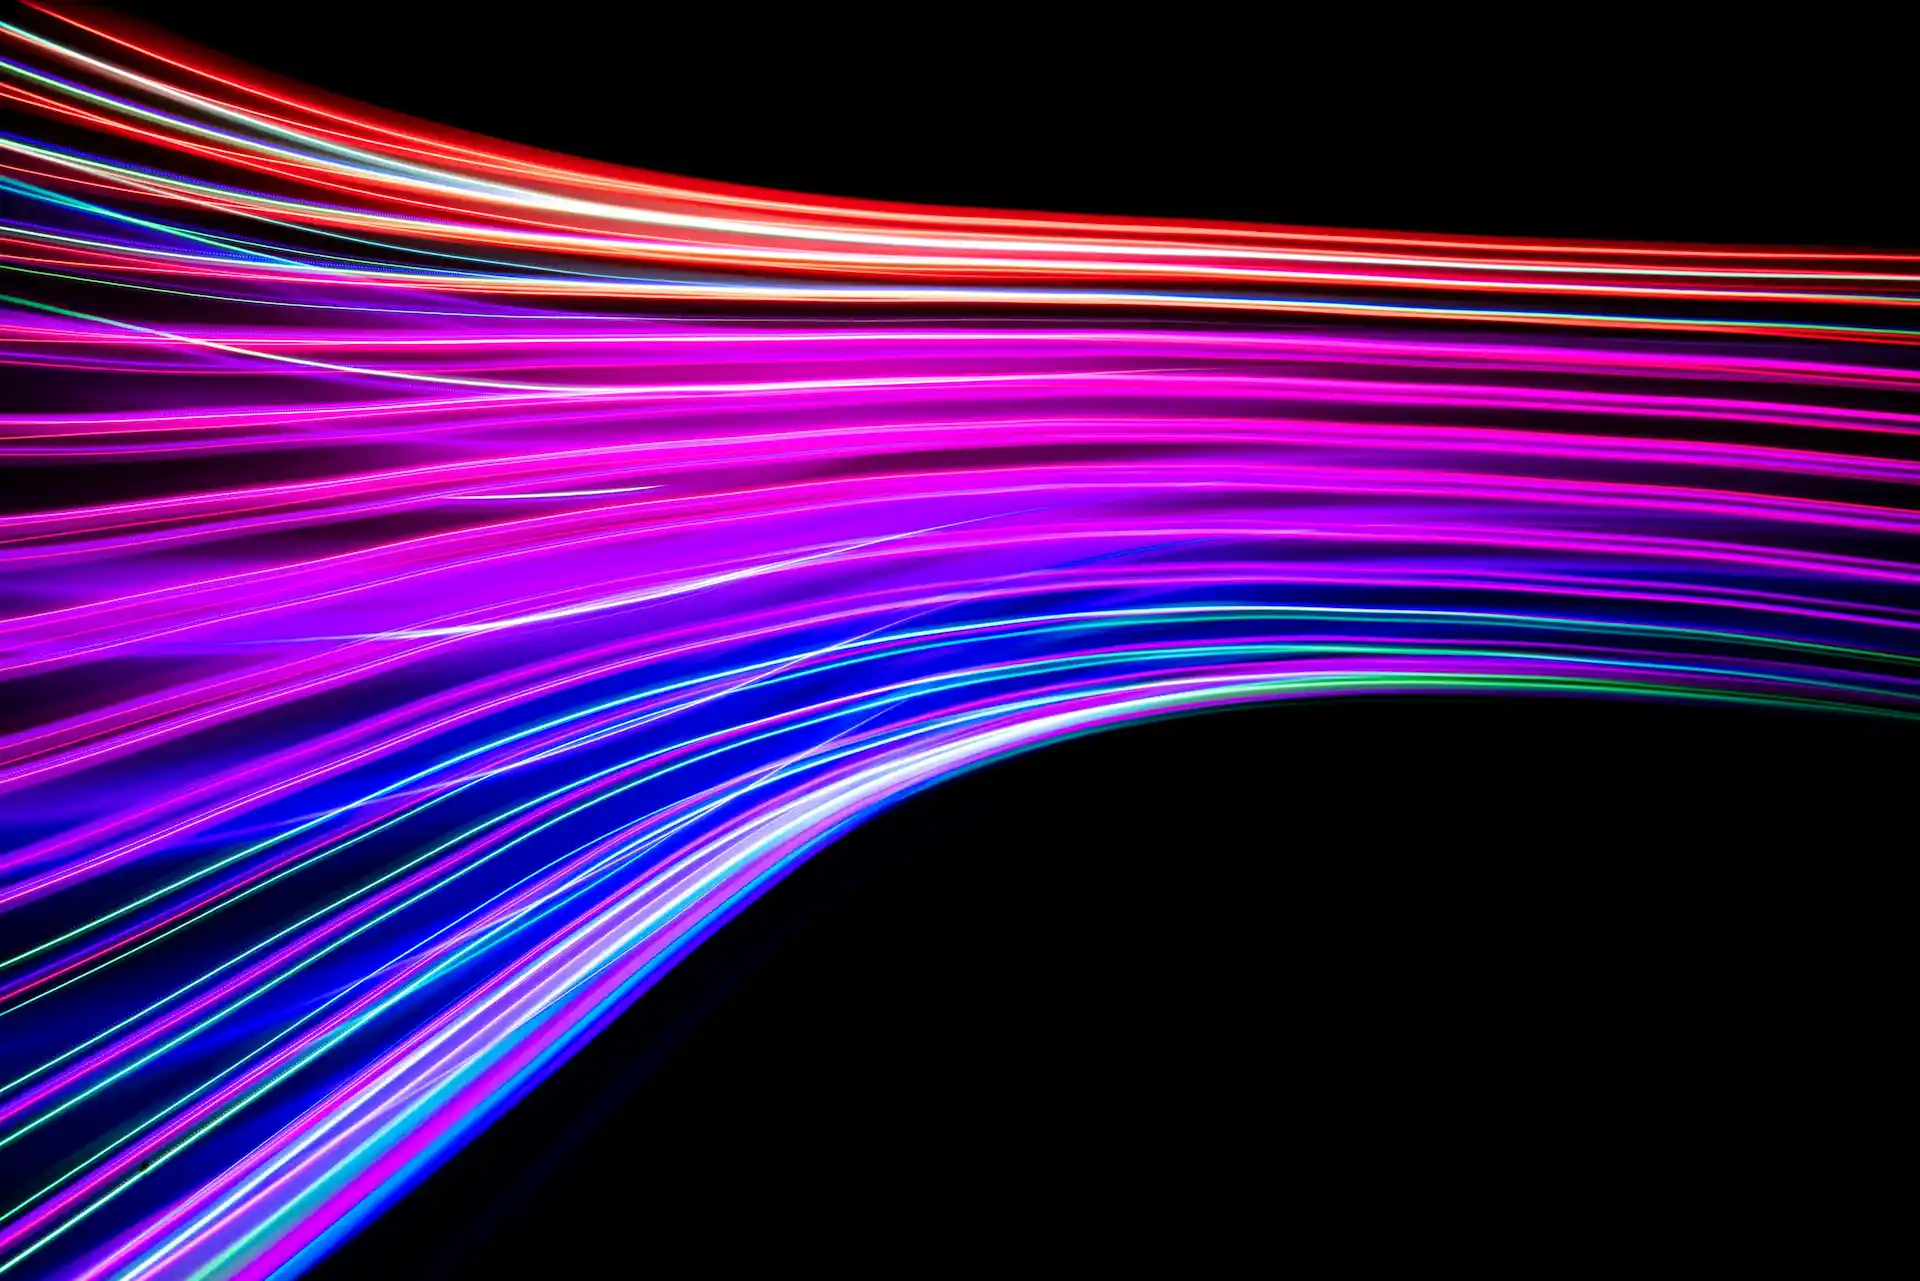
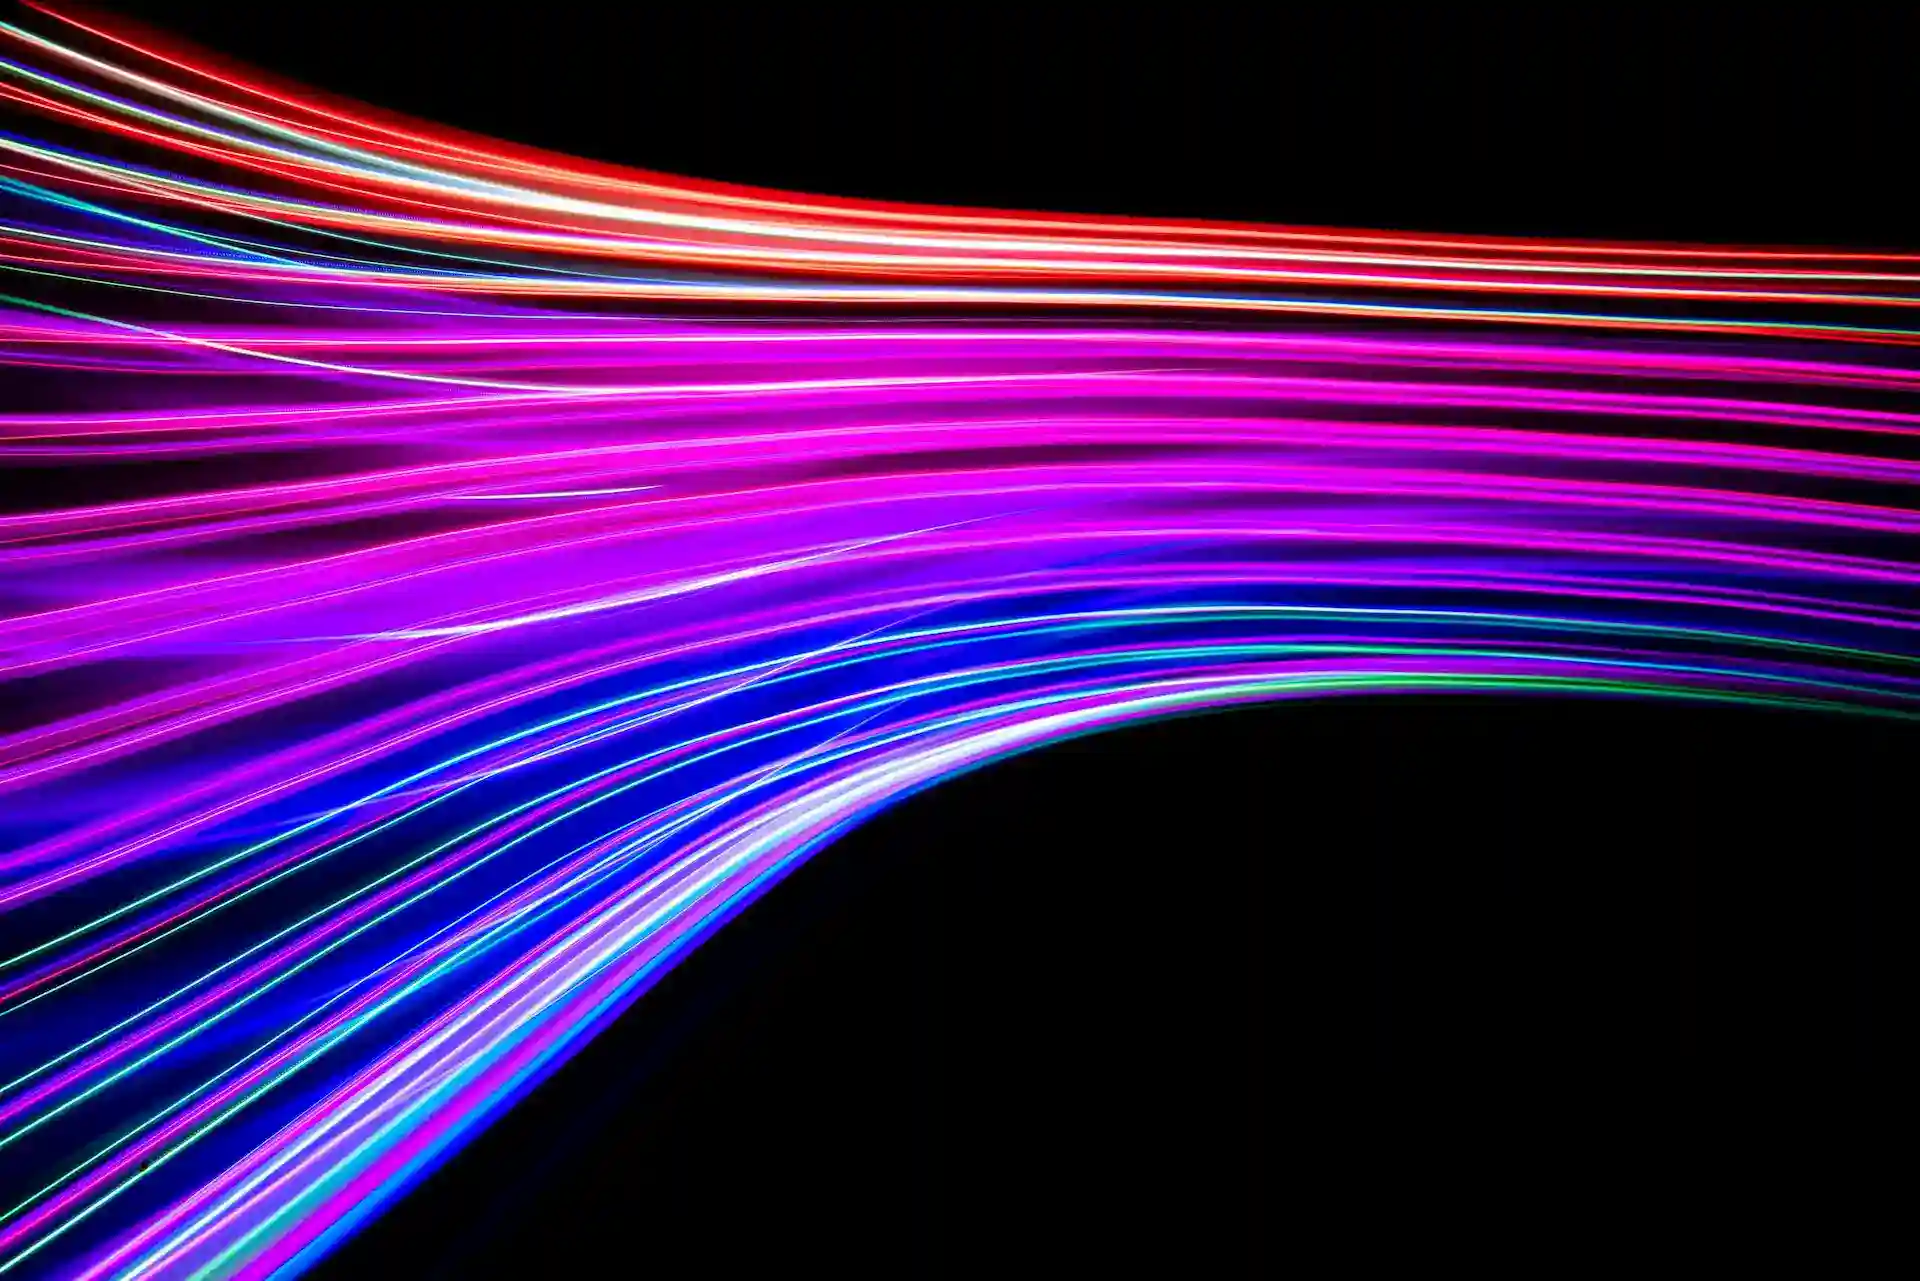
fix: hero 이미지에 fetchPriority 속성 추가 + hero 이미지 압축

diff --git a/src/pages/Home/Home.tsx b/src/pages/Home/Home.tsx
@@ -20,7 +20,7 @@ const Home = () => {
   return (
     <>
       <section className={styles.heroSection}>
-        <img className={styles.heroImage} src={heroImage} alt="hero image" />
+        <img className={styles.heroImage} src={heroImage} alt="hero image" fetchPriority="high" />
         <div className={styles.projectTitle}>
           <h1 className={styles.title}>Memegle</h1>
           <h3 className={styles.subtitle}>gif search engine for you</h3>
